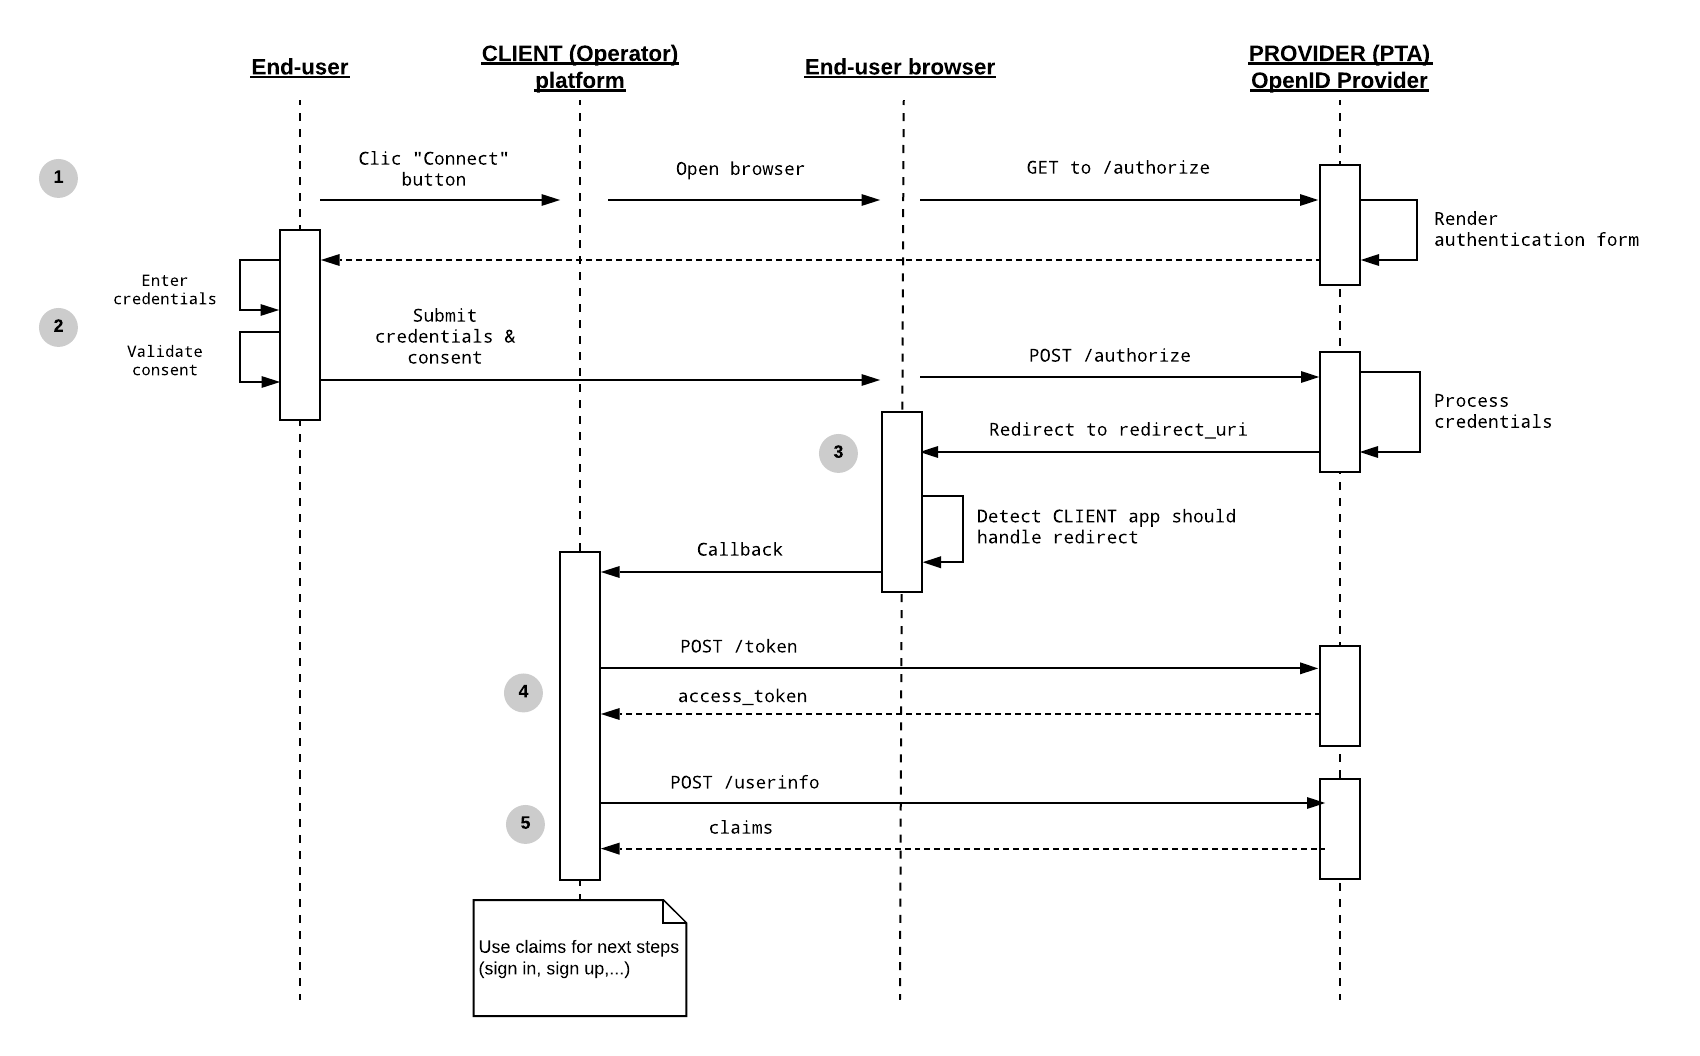
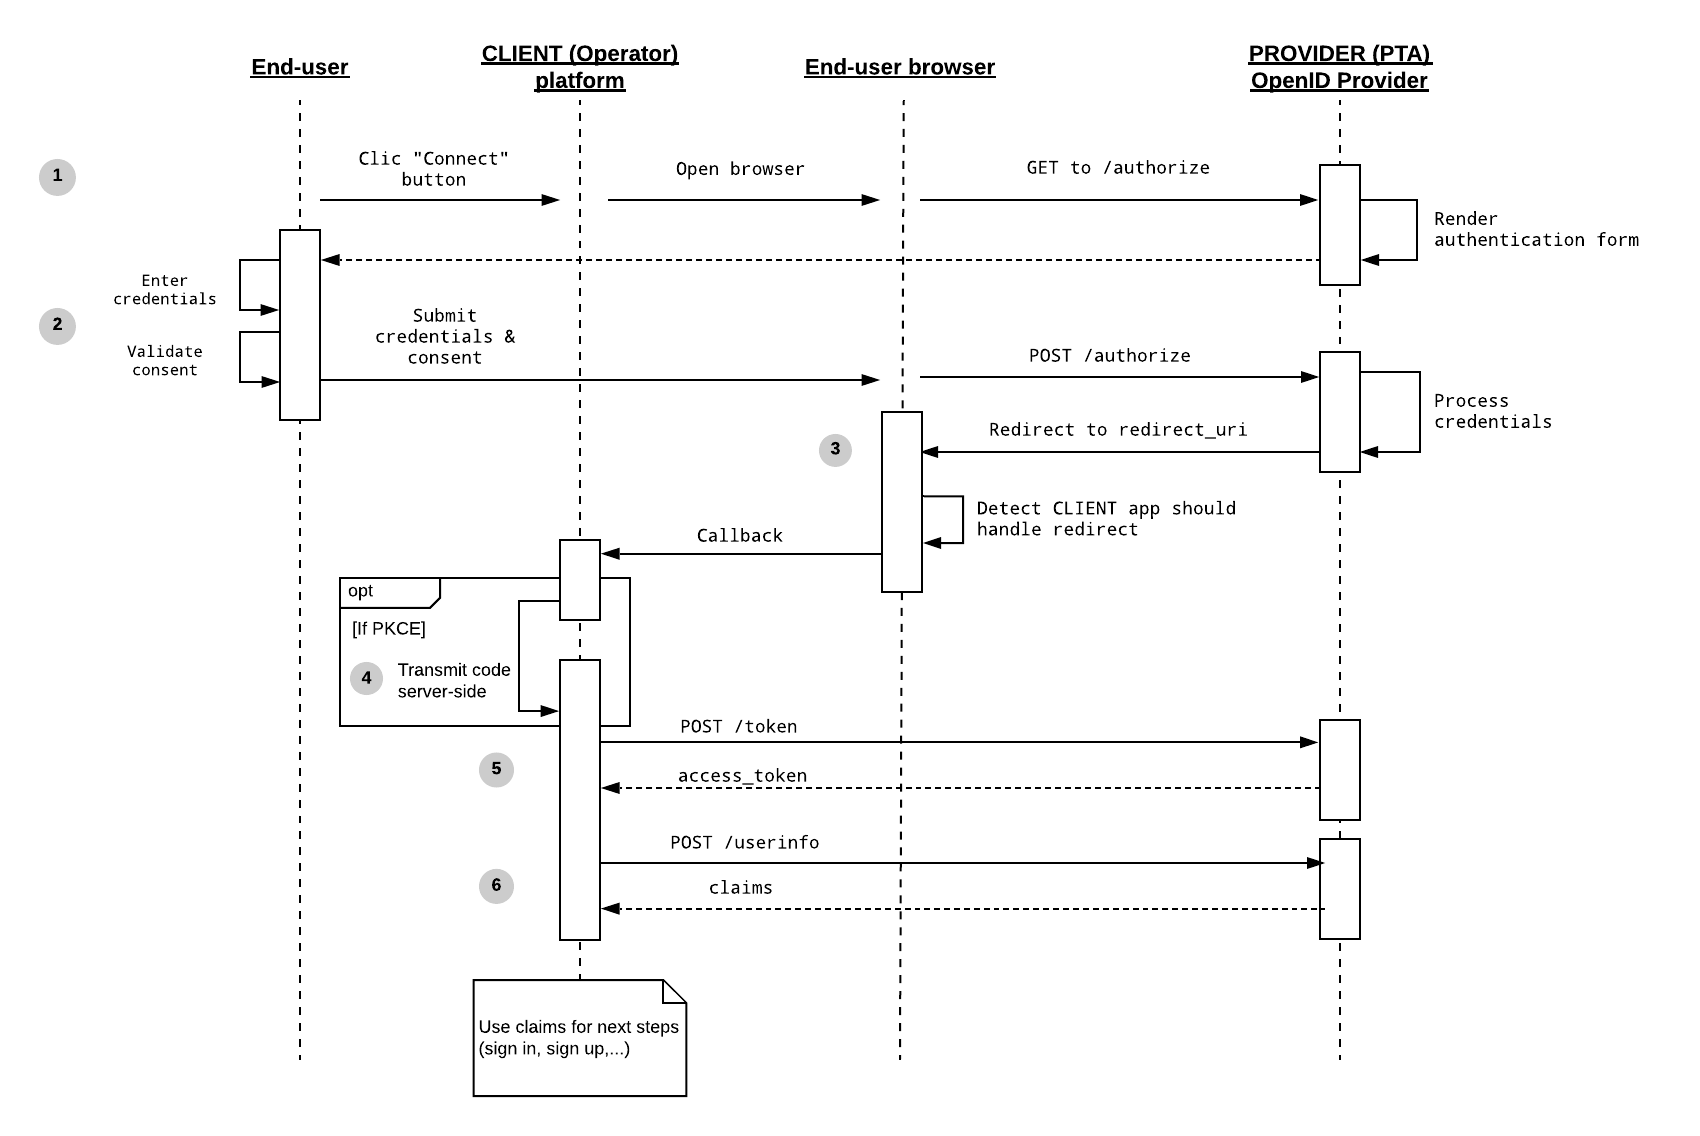
connect: optional step to benefit from PKCE

diff --git a/main-specification.md b/main-specification.md
@@ -75,7 +75,7 @@ The authorization endpoint is often `/authorize` but it MAY be something else, d
 
 * **`client_id`**: REQUIRED. The unique identifier of the CLIENT for the PROVIDER.
 
-* **`redirect_uri`**: REQUIRED. A valid URL recognized by your mobile application as an app link. Depending on the target platform, [Android app links](https://developer.android.com/training/app-links) or [iOS universal links](https://developer.apple.com/documentation/xcode/supporting-universal-links-in-your-app) MUST be used, so only the CLIENT app is able to get the authorization callback through `redirect_uri`.
+* **`redirect_uri`**: REQUIRED. A valid URL recognized by your mobile application as an app link. Depending on the target OS, [Android app links](https://developer.android.com/training/app-links) or [iOS universal links](https://developer.apple.com/documentation/xcode/supporting-universal-links-in-your-app) MUST be used, so only the CLIENT app is able to get the authorization callback through `redirect_uri`.
 
 * **`pkce_code_challenge_method`**: RECOMMENDED. PKCE code challenge method, S256 (SHA-256) MUST be used if the CLIENT app supports it as mentioned in [RFC 7636 - section 4.2](https://datatracker.ietf.org/doc/html/rfc7636#section-4.2).
 
@@ -105,9 +105,18 @@ The redirect parameters MAY also include `state` if it was provided while initia
 
 If the authentication process is fails, the PROVIDER MUST also redirect to the `redirect_uri`, providing [standard error response parameters](https://openid.net/specs/openid-connect-core-1_0.html#AuthError).
 
-### 4 - Exchanging the code for an access_token
+### 4 - Transmit code server side (OPTIONAL)
+
+This step is RECOMMANDED. It SHOULD NOT be implemented if PKCE is not used for this flow.
+
+During this step, CLIENT native app MUST transmit `code` and `code_verifier` to the CLIENT server. Method for transmitting this information is left at the discretion of the CLIENT.
+
+With this step, next steps will be performed server-side, preventing `client_secret` from beeing exposed client-side.
+
+### 5 - Exchanging the code for an access_token
 
 CLIENT MUST call the token endpoint of the PROVIDER with the `code` returned as a parameter of the `redirect_uri`. It will allow the client to get a short-living `access_token`.
+
 
 The token endpoint is often `/token` but it MAY be something else, depending on the PROVIDER configuration. Call to the token endpoint has the following signature:
 
@@ -138,7 +147,7 @@ Response from the PROVIDER will at least include an `access_token` and an `id_to
 
 The `id_token` MUST be validated by the CLIENT according to [OpenID Connect 1.0 specification - section 3.1.3.7](https://openid.net/specs/openid-connect-core-1_0.html#IDTokenValidation).
 
-### 4 - Getting user info
+### 6 - Getting user info
 
 Using the `access_token` from the previous step, CLIENT can retrieve the end-user claims from the PROVIDER by calling the user info endpoint.
 
@@ -169,8 +178,9 @@ In a sign-up scenario, CLIENT SHOULD use the OpenID Connect claims to pre-fill u
 
 If claims are updated on the PROVIDER platform, CLIENT SHOULD NOT update user info accordingly. After the initial authentication, user info will leave separately.
 
-If the end-user decide to revoke access of the CLIENT to the [...]
+If the end-user decides to disconnect its PROVIDER account from the CLIENT platform, CLIENT MUST delete `access_token` and `refresh_token` of the PROVIDER for this user. CLIENT MAY decide to disconnect the user from its platform in this case. No additional step SHOULD be taken by the CLIENT.
 
-TODO
+[...]
+
 
 
